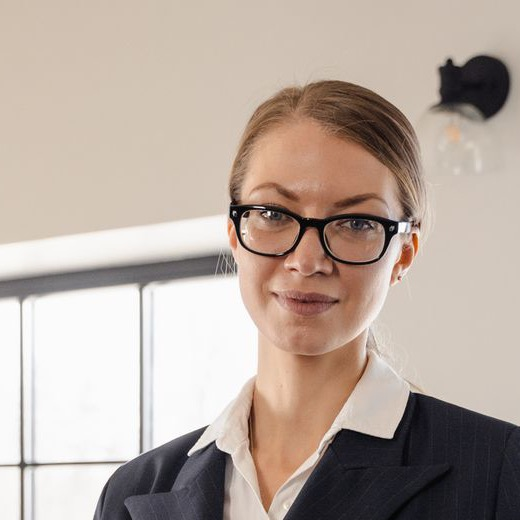
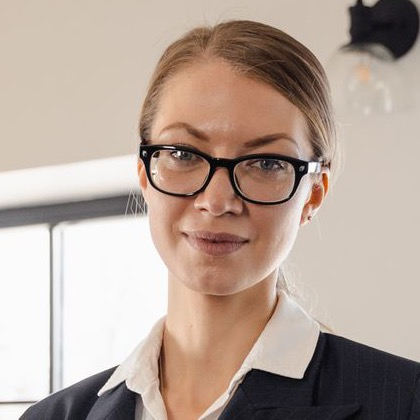
Journeys map + cards polish: organic winding routes (cubic S-curves with dips and rises replacing the Manhattan grid paths), the owners mini ringed headshots travel their own roads (establish large, settle, ride the route) replacing the anonymous dots. Headshots recropped tight (face fills the circl

diff --git a/app/journeys/page.tsx b/app/journeys/page.tsx
@@ -50,7 +50,7 @@ const CARDS = [
     tag: 'Home service',
     line: 'Marcus got his <span class="g">nights back</span>.',
     teaser: 'You’re the best in your trade for miles. So why does the phone keep going to voicemail while you’re on the tools?',
-    cta: 'From voicemail to booked',
+    cta: 'Every call answered',
   },
   {
     href: '/journeys/consultant',
@@ -63,7 +63,7 @@ const CARDS = [
     tag: 'Consultant',
     line: 'Sean stopped <span class="g">chasing</span>.',
     teaser: 'You’re brilliant at the work. But your best leads go cold while you’re heads-down delivering for someone else.',
-    cta: 'From famine to steady',
+    cta: 'A full pipeline',
   },
   {
     href: '/journeys/real-estate-agent',
@@ -76,7 +76,7 @@ const CARDS = [
     tag: 'Real estate agent',
     line: 'Kim&rsquo;s first to <span class="g">every door</span>.',
     teaser: 'You’re one of the top agents in town. But the lead always tours with whoever calls back first.',
-    cta: 'From second to first',
+    cta: 'Every lead in seconds',
   },
 ];
 
@@ -87,12 +87,13 @@ const PINS = [
   { img: '/face-kim.jpg', pos: 'center', name: 'Kim', trade: 'Real estate', c: '#7c3aed', left: '84%', top: '14%' },
 ];
 
-/* Manhattan-style routes (viewBox 1100x520), each from its pin to the destination pin.
-   Rounded corners via quadratic joins, Google-Maps route language. */
+/* Organic winding routes (viewBox 1100x520): smooth cubic S-curves that dip and rise
+   on the way to the destination — a journey with ups and downs, not a subway map
+   (Jacob, July 27: "imply curves, ups and downs... still clean, just more organic"). */
 const ROUTES = [
-  { c: '#06b6d4', d: 'M104,110 L104,236 Q104,252 120,252 L400,252 Q416,252 416,268 L416,380 Q416,396 432,396 L520,396', delay: '2.35s' },
-  { c: '#4f46e5', d: 'M540,68 L540,180 Q540,196 556,196 L560,196 Q548,196 548,212 L548,396 L550,396', delay: '2.6s' },
-  { c: '#7c3aed', d: 'M958,132 L958,244 Q958,260 942,260 L680,260 Q664,260 664,276 L664,380 Q664,396 648,396 L580,396', delay: '2.85s' },
+  { c: '#06b6d4', d: 'M104,118 C142,225 62,308 172,334 C262,356 298,252 386,270 C462,286 478,392 522,416', delay: '2.35s' },
+  { c: '#4f46e5', d: 'M540,74 C588,142 478,192 508,262 C532,318 592,334 566,384 C556,404 552,410 550,414', delay: '2.6s' },
+  { c: '#7c3aed', d: 'M958,140 C932,238 1012,292 898,320 C798,346 722,298 662,348 C622,380 606,398 578,416', delay: '2.85s' },
 ];
 
 export default function JourneysPage() {
@@ -132,6 +133,9 @@ export default function JourneysPage() {
           <div className="jl-mapwrap" aria-hidden="true">
             <div className="jl-map">
               <svg className="jl-svg" viewBox="0 0 1100 520" preserveAspectRatio="xMidYMid meet">
+                <defs>
+                  <clipPath id="jlcp"><circle r="15" cx="0" cy="0" /></clipPath>
+                </defs>
                 {/* faint street grid */}
                 <g className="grid">
                   {[70, 140, 210, 280, 350, 420].map((y) => (
@@ -143,12 +147,17 @@ export default function JourneysPage() {
                   <line x1="0" y1="480" x2="1100" y2="330" />
                   <line x1="180" y1="0" x2="440" y2="520" />
                 </g>
-                {/* routes: base draw + traveling dot */}
+                {/* routes: base draw + the OWNER travels their own road (mini ringed
+                    headshot as the moving marker — Jacob: the profile pic is the one
+                    moving the map) */}
                 {ROUTES.map((r, i) => (
                   <g key={i}>
                     <path className="rt-under" d={r.d} />
                     <path className="rt" d={r.d} pathLength={1} style={{ stroke: r.c, animationDelay: r.delay }} />
-                    <circle className="dot" r="6" style={{ fill: r.c, offsetPath: `path('${r.d}')`, animationDelay: `calc(${r.delay} + 1.5s)` } as React.CSSProperties} />
+                    <g className="jl-trav" style={{ offsetPath: `path('${r.d}')`, animationDelay: `calc(${r.delay} + 1.6s)` } as React.CSSProperties}>
+                      <circle r="17.5" fill="#fff" stroke={r.c} strokeWidth="2.5" />
+                      <image href={PINS[i].img} x="-15" y="-15" width="30" height="30" clipPath="url(#jlcp)" preserveAspectRatio="xMidYMid slice" />
+                    </g>
                   </g>
                 ))}
               </svg>
@@ -250,8 +259,10 @@ const CSS = `
 .jl-svg .rt-under{fill:none;stroke:rgba(6,12,20,.07);stroke-width:9;stroke-linecap:round;stroke-linejoin:round;}
 .jl-svg .rt{fill:none;stroke-width:5;stroke-linecap:round;stroke-linejoin:round;stroke-dasharray:1;stroke-dashoffset:1;animation:jlDraw 1.4s cubic-bezier(.45,0,.2,1) forwards;}
 @keyframes jlDraw{to{stroke-dashoffset:0;}}
-.jl-svg .dot{opacity:0;offset-rotate:0deg;animation:jlTravel 4.2s linear infinite;}
-@keyframes jlTravel{0%{offset-distance:0%;opacity:0;}6%{opacity:1;}92%{opacity:1;}100%{offset-distance:100%;opacity:0;}}
+/* the traveler: the owner's mini headshot rides the route; it "establishes" large at
+   the start (scale settle) then travels. */
+.jl-svg .jl-trav{opacity:0;offset-rotate:0deg;animation:jlTravel 6s linear infinite;}
+@keyframes jlTravel{0%{offset-distance:0%;opacity:0;transform:scale(1.5);}5%{opacity:1;transform:scale(1.5);}12%{transform:scale(1);}90%{opacity:1;}100%{offset-distance:100%;opacity:0;transform:scale(.75);}}
 
 .pin{position:absolute;transform:translate(-50%,-40%);display:flex;flex-direction:column;align-items:center;gap:7px;z-index:2;}
 .pav{width:clamp(34px,4.6vw,52px);height:clamp(34px,4.6vw,52px);border-radius:50%;display:block;overflow:hidden;background:#fff;}
@@ -300,6 +311,6 @@ const CSS = `
 @media(prefers-reduced-motion:reduce){
   .jl-pill,.jl-hero .hl1,.jl-hero .hl2,.jl-sub,.jl-mapwrap,.dpin,.dlab{animation:none;opacity:1;}
   .jl-svg .rt{animation:none;stroke-dashoffset:0;}
-  .jl-svg .dot,.dring{animation:none;opacity:0;}
+  .jl-svg .jl-trav,.dring{animation:none;opacity:0;}
 }
 `;
